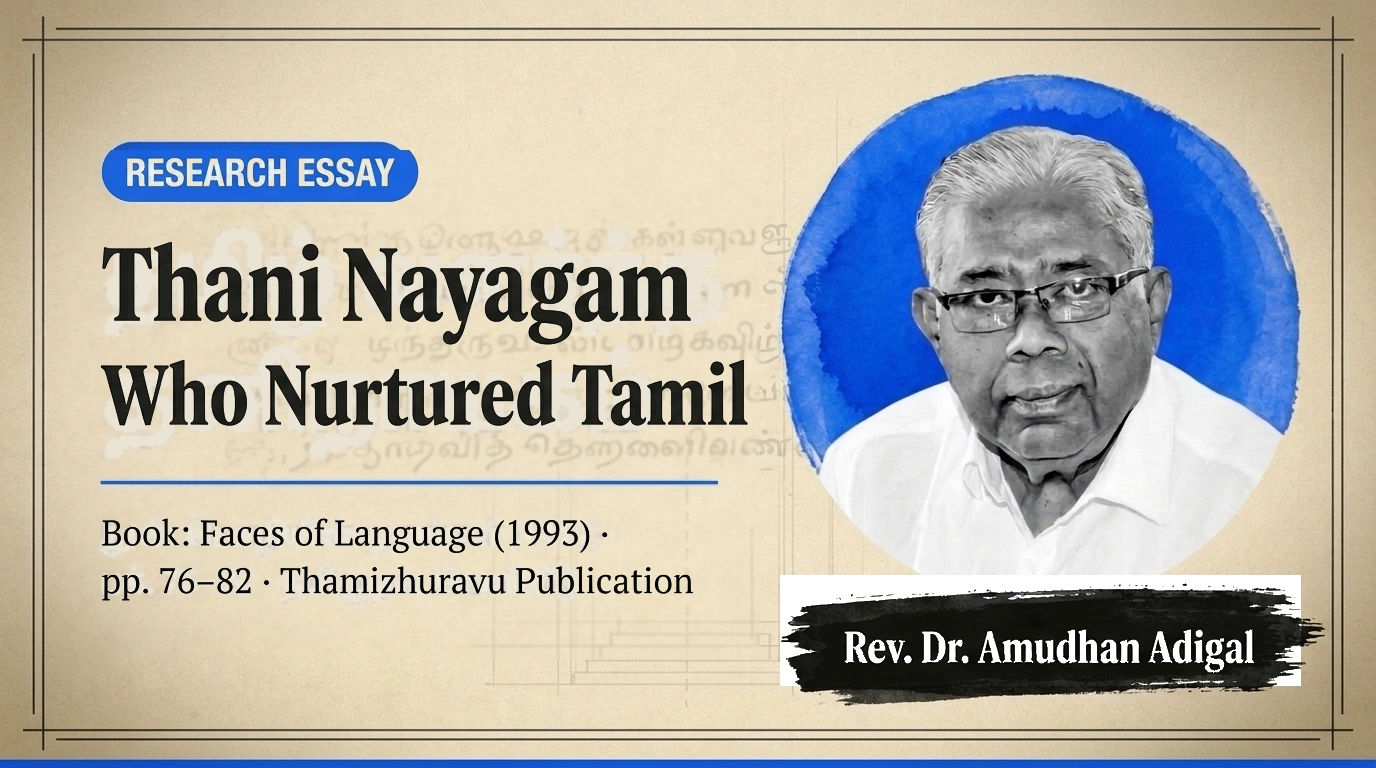
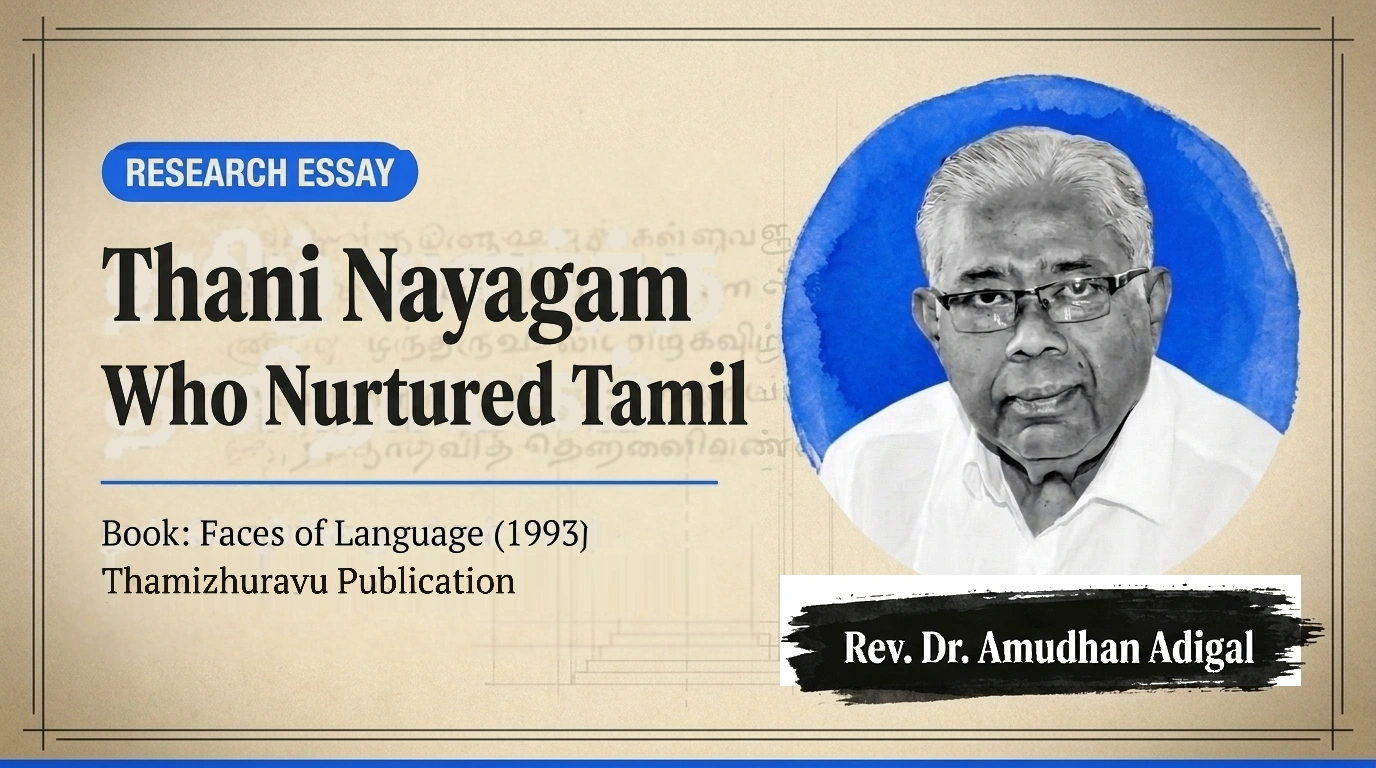
fix(katturai): remove page numbers 76-82 from source metadata and thumbnail cards

Changed region(s): [[0.0625, 0.7188, 0.5, 0.7812]]

diff --git a/lib/katturaigal.ts b/lib/katturaigal.ts
@@ -89,7 +89,7 @@ const ENRICHMENTS: Record<string, Partial<Katturai>> = {
     descriptionEn:
       "A research essay chronicling Father Thani Nayagam's worldwide service to Tamil, founding of the International Association for Tamil Research (IATR), launching of 'Tamil Culture', and recovery of early Tamil printed books.",
     authorEn: "Rev. Dr. Amudhan Adigal",
-    sourceEn: "Faces of Language (Thamizhuravu Publication), pp. 76–82 (1993)",
+    sourceEn: "Faces of Language (Thamizhuravu Publication) (1993)",
     aboutAuthorEn:
       "Rev. Dr. Amudhan Adigal (1937–2003) was a pioneering research historian who continuously documented Father Thani Nayagam's intellectual life for over 30 years and authored the first comprehensive biography.",
     thumbnailImage: "/images/katturaigal/tamil-valartha-thaninayagam-thumb.webp",

diff --git a/content/katturaigal/06-tamil-valartha-thaninayagam-amudhan-adigal.md b/content/katturaigal/06-tamil-valartha-thaninayagam-amudhan-adigal.md
@@ -3,7 +3,7 @@ title: தமிழ் வளர்த்த தனிநாயகம்
 description: >-
   தனிநாயக அடிகளாரின் உலகளாவிய தமிழ்ப்பணி, உலகத் தமிழ் ஆராய்ச்சி மன்றம் தோற்றுவித்தமை, 'Tamil Culture' இதழின் தொடக்கம் மற்றும் அரிய பழந்தமிழ் நூல்களை மீட்டெடுத்த வரலாறு குறித்து விளக்கும் அரிய ஆய்வுக் கட்டுரை.
 author: அமுதன் அடிகள்
-source: 'மொழியின் முகங்கள் (தமிழுறவு வெளியீடு), பக். 76–82'
+source: 'மொழியின் முகங்கள் (தமிழுறவு வெளியீடு)'
 publishDate: '2026-11-16'
 sourceDate: '1993'
 about_author: >-
